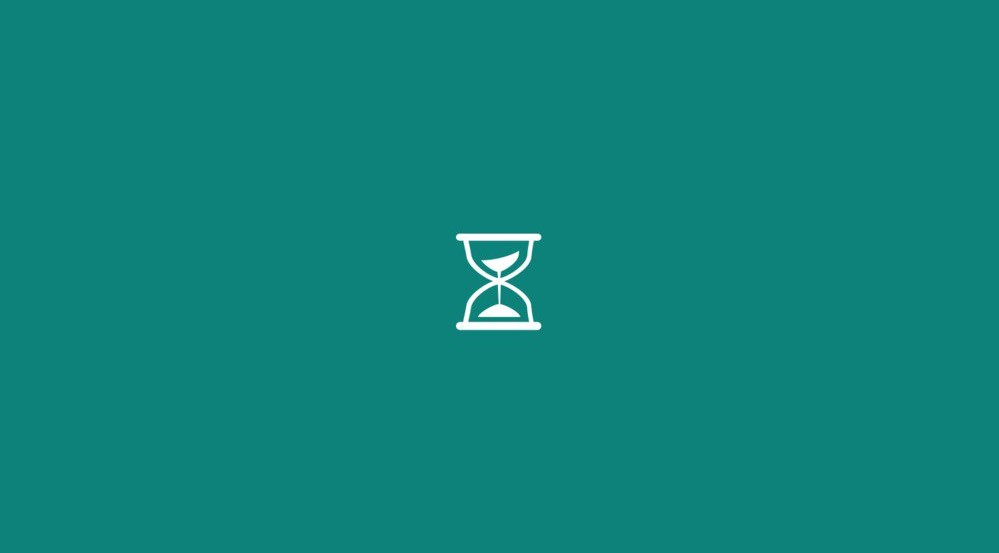
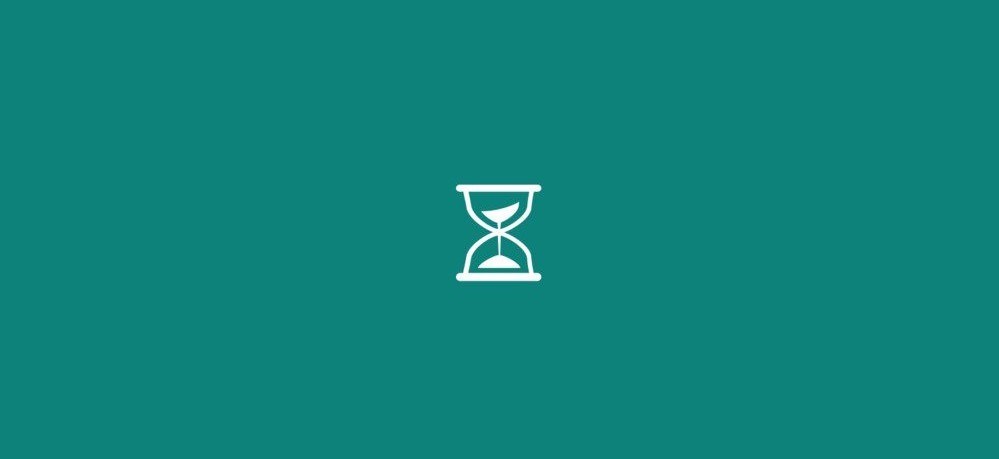
A

Changed region(s): [[0.4344, 0.3965, 0.5586, 0.6405]]

diff --git a/index.html b/index.html
@@ -118,60 +118,58 @@
 				    <li data-target="#carouselExampleIndicators" data-slide-to="14"></li>
 				    <li data-target="#carouselExampleIndicators" data-slide-to="15"></li>
 				    <li data-target="#carouselExampleIndicators" data-slide-to="16"></li>
-				    <li data-target="#carouselExampleIndicators" data-slide-to="17"></li>
-				    <li data-target="#carouselExampleIndicators" data-slide-to="18"></li>
 				  </ol>
 				  <div class="carousel-inner">
 				     <div class="carousel-item active">
-				      <img class="d-block w-100" style="height: 600px; width: 33px;" src="WOR_1.jpg" alt="First slide">
+				      <img class="d-block w-100" style="height: auto; width: auto;" src="WOR_1.jpg" alt="First slide">
 				    </div>
 				    <div class="carousel-item">
-				      <img class="d-block w-100" style="height: 600px; width: 33px;" src="WOR_2.jpg" alt="Second slide">
+				      <img class="d-block w-100" style="height: auto; width: auto;" src="WOR_2.jpg" alt="Second slide">
 				    </div>
 				    <div class="carousel-item">
-				      <img class="d-block w-100" style="height: 600px; width: 33px;" src="WOR_3.jpg" alt="Third slide">
+				      <img class="d-block w-100" style="height: auto; width: auto;" src="WOR_3.jpg" alt="Third slide">
 				    </div>
 				    <div class="carousel-item">
-				      <img class="d-block w-100" style="height: 600px; width: 33px;" src="WOR_4.jpg" alt="Fourth slide">
+				      <img class="d-block w-100" style="height: auto; width: auto;" src="WOR_4.jpg" alt="Fourth slide">
 				    </div>
 				    <div class="carousel-item">
-				      <img class="d-block w-100" style="height: 600px; width: 33px;" src="WOR_5.jpg" alt="Fifth slide">
+				      <img class="d-block w-100" style="height: auto; width: auto;" src="WOR_5.jpg" alt="Fifth slide">
 				    </div>
 				    <div class="carousel-item">
-				      <img class="d-block w-100" style="height: 600px; width: 33px;" src="WOR_6.jpg" alt="Sixth slide">
+				      <img class="d-block w-100" style="height: auto; width: auto;" src="WOR_6.jpg" alt="Sixth slide">
 				    </div>
 				    <div class="carousel-item">
-				      <img class="d-block w-100" style="height: 600px; width: 33px;" src="WOR_7.jpg" alt="Seventh slide">
+				      <img class="d-block w-100" style="height: auto; width: auto;" src="WOR_7.jpg" alt="Seventh slide">
 				    </div>
 				    <div class="carousel-item">
-				      <img class="d-block w-100" style="height: 600px; width: 33px;" src="WOR_8.jpg" alt="Eighth slide">
+				      <img class="d-block w-100" style="height: auto; width: auto;" src="WOR_8.jpg" alt="Eighth slide">
 				    </div>
 				    <div class="carousel-item">
-				      <img class="d-block w-100" style="height: 600px; width: 33px;" src="WOR_9.jpg" alt="Ninth slide">
+				      <img class="d-block w-100" style="height: auto; width: auto;" src="WOR_9.jpg" alt="Ninth slide">
 				    </div>
 				    <div class="carousel-item">
-				      <img class="d-block w-100" style="height: 600px; width: 33px;" src="WOR_10.jpg" alt="Tenth slide">
+				      <img class="d-block w-100" style="height: auto; width: auto;" src="WOR_10.jpg" alt="Tenth slide">
 				    </div>
 				    <div class="carousel-item">
-				      <img class="d-block w-100" style="height: 600px; width: 33px;" src="WOR_11.jpg" alt="Eleventh slide">
+				      <img class="d-block w-100" style="height: auto; width: auto;" src="WOR_11.jpg" alt="Eleventh slide">
 				    </div>
 				    <div class="carousel-item">
-				      <img class="d-block w-100" style="height: 600px; width: 33px;" src="WOR_12.jpg" alt="Twelfth slide">
+				      <img class="d-block w-100" style="height: auto; width: auto;" src="WOR_12.jpg" alt="Twelfth slide">
 				    </div>
 				    <div class="carousel-item">
-				      <img class="d-block w-100" style="height: 600px; width: 33px;" src="WOR_13.jpg" alt="Thirteenth slide">
+				      <img class="d-block w-100" style="height: auto; width: auto;" src="WOR_13.jpg" alt="Thirteenth slide">
 				    </div>
 				    <div class="carousel-item">
-				      <img class="d-block w-100" style="height: 600px; width: 33px;" src="WOR_14.jpg" alt="Fourteenth slide">
+				      <img class="d-block w-100" style="height: auto; width: auto;" src="WOR_14.jpg" alt="Fourteenth slide">
 				    </div>
 				    <div class="carousel-item">
-				      <img class="d-block w-100" style="height: 600px; width: 33px;" src="WOR_15.jpg" alt="Fifteenth slide">
+				      <img class="d-block w-100" style="height: auto; width: auto;" src="WOR_15.jpg" alt="Fifteenth slide">
 				    </div>
 				    <div class="carousel-item">
-				      <img class="d-block w-100" style="height: 600px; width: 33px;" src="WOR_16.jpg" alt="Sixteenth slide">
+				      <img class="d-block w-100" style="height: auto; width: auto;" src="WOR_16.jpg" alt="Sixteenth slide">
 				    </div>
 				    <div class="carousel-item">
-				      <img class="d-block w-100" style="height: 600px; width: 33px;" src="WOR_17.jpg" alt="Seventeenth slide">
+				      <img class="d-block w-100" style="height: auto; width: auto;" src="WOR_17.jpg" alt="Seventeenth slide">
 				    </div>
 				    
 				  </div>
@@ -213,53 +211,52 @@
 				    <li data-target="#carouselExampleIndicators" data-slide-to="12"></li>
 				    <li data-target="#carouselExampleIndicators" data-slide-to="13"></li>
 				    <li data-target="#carouselExampleIndicators" data-slide-to="14"></li>
-				    <li data-target="#carouselExampleIndicators" data-slide-to="15"></li>
 				  </ol>
 				  <div class="carousel-inner">
 				    <div class="carousel-item active">
-				      <img class="d-block w-100" style="height: 600px; width: 33px;" src="GAL_1.png" alt="First slide">
+				      <img class="d-block w-100" style="height: auto; width: auto;" src="GAL_1.png" alt="First slide">
 				    </div>
 				    <div class="carousel-item">
-				      <img class="d-block w-100" style="height: 600px; width: 33px;" src="GAL_2.png" alt="Second slide">
+				      <img class="d-block w-100" style="height: auto; width: auto;" src="GAL_2.png" alt="Second slide">
 				    </div>
 				    <div class="carousel-item">
-				      <img class="d-block w-100" style="height: 600px; width: 33px;" src="GAL_3.jpg" alt="Third slide">
+				      <img class="d-block w-100" style="height: auto; width: auto;" src="GAL_3.jpg" alt="Third slide">
 				    </div>
 				    <div class="carousel-item">
-				      <img class="d-block w-100" style="height: 600px; width: 33px;" src="GAL_4.jpg" alt="Fourth slide">
+				      <img class="d-block w-100" style="height: auto; width: auto;" src="GAL_4.jpg" alt="Fourth slide">
 				    </div>
 				    <div class="carousel-item">
-				      <img class="d-block w-100" style="height: 600px; width: 33px;" src="GAL_5.jpg" alt="Fifth slide">
+				      <img class="d-block w-100" style="height: auto; width: auto;" src="GAL_5.jpg" alt="Fifth slide">
 				    </div>
 				    <div class="carousel-item">
-				      <img class="d-block w-100" style="height: 600px; width: 33px;" src="GAL_6.jpg" alt="Sixth slide">
+				      <img class="d-block w-100" style="height: auto; width: auto;" src="GAL_6.jpg" alt="Sixth slide">
 				    </div>
 				    <div class="carousel-item">
-				      <img class="d-block w-100" style="height: 600px; width: 33px;" src="GAL_7.jpg" alt="Seventh slide">
+				      <img class="d-block w-100" style="height: auto; width: auto;" src="GAL_7.jpg" alt="Seventh slide">
 				    </div>
 				    <div class="carousel-item">
-				      <img class="d-block w-100" style="height: 600px; width: 33px;" src="GAL_8.jpg" alt="Eighth slide">
+				      <img class="d-block w-100" style="height: auto; width: auto;" src="GAL_8.jpg" alt="Eighth slide">
 				    </div>
 				    <div class="carousel-item">
-				      <img class="d-block w-100" style="height: 600px; width: 33px;" src="GAL_9.jpg" alt="Ninth slide">
+				      <img class="d-block w-100" style="height: auto; width: auto;" src="GAL_9.jpg" alt="Ninth slide">
 				    </div>
 				    <div class="carousel-item">
-				      <img class="d-block w-100" style="height: 600px; width: 33px;" src="GAL_10.jpg" alt="Tenth slide">
+				      <img class="d-block w-100" style="height: auto; width: auto;" src="GAL_10.jpg" alt="Tenth slide">
 				    </div>
 				    <div class="carousel-item">
-				      <img class="d-block w-100" style="height: 600px; width: 33px;" src="GAL_11.jpg" alt="Eleventh slide">
+				      <img class="d-block w-100" style="height: auto; width: auto;" src="GAL_11.jpg" alt="Eleventh slide">
 				    </div>
 				    <div class="carousel-item">
-				      <img class="d-block w-100" style="height: 600px; width: 33px;" src="GAL_12.jpg" alt="Twelfth slide">
+				      <img class="d-block w-100" style="height: auto; width: auto;" src="GAL_12.png" alt="Twelfth slide">
 				    </div>
 				    <div class="carousel-item">
-				      <img class="d-block w-100" style="height: 600px; width: 33px;" src="GAL_13.jpg" alt="Thirteenth slide">
+				      <img class="d-block w-100" style="height: auto; width: auto;" src="GAL_13.jpg" alt="Thirteenth slide">
 				    </div>
 				    <div class="carousel-item">
-				      <img class="d-block w-100" style="height: 600px; width: 33px;" src="GAL_14.jpg" alt="Fourteenth slide">
+				      <img class="d-block w-100" style="height: auto; width: auto;" src="GAL_14.jpg" alt="Fourteenth slide">
 				    </div>
 				    <div class="carousel-item">
-				      <img class="d-block w-100" style="height: 600px; width: 33px;" src="GAL_15.jpg" alt="Fifteenth slide">
+				      <img class="d-block w-100" style="height: auto; width: auto;" src="GAL_15.jpg" alt="Fifteenth slide">
 				    </div>
 				  </div>
 				  <a class="carousel-control-prev" href="#carouselExampleIndicators" role="button" data-slide="prev" onclick="GoPrevImageSlider2()">

diff --git a/style.css b/style.css
@@ -30,6 +30,8 @@
 #carouselExampleIndicators2 {
     background-color: black; 
     height: 600px;
+
+
 }
 
 .standard_margin_1 {
